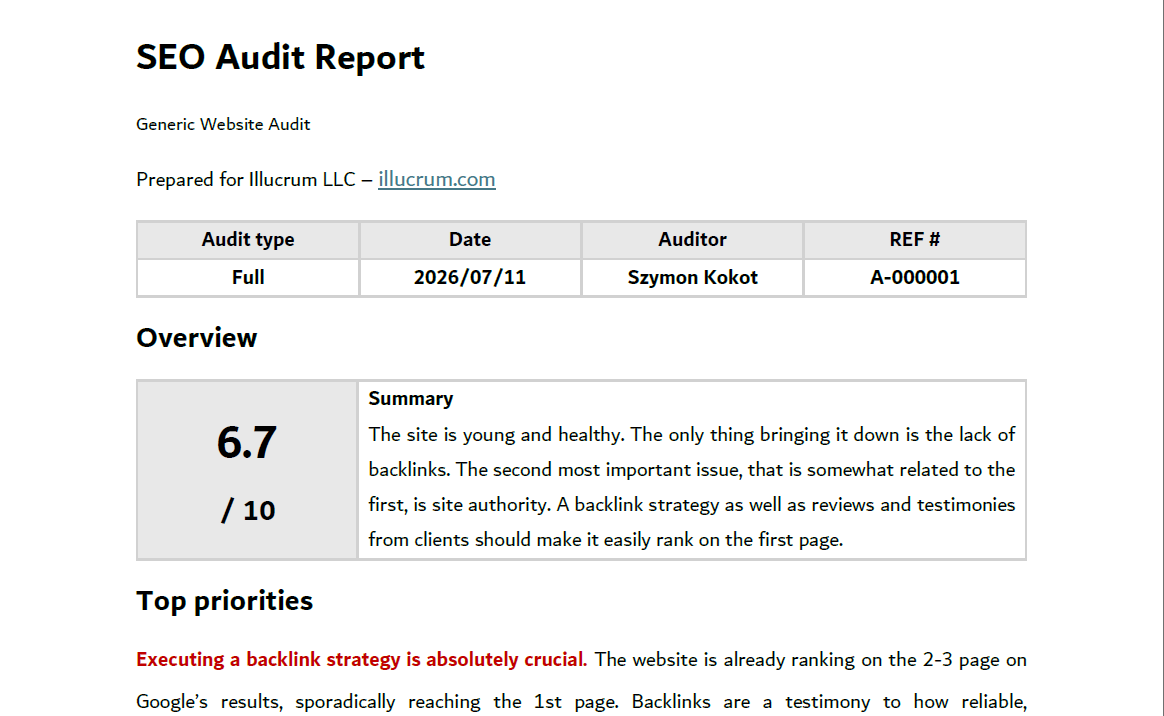
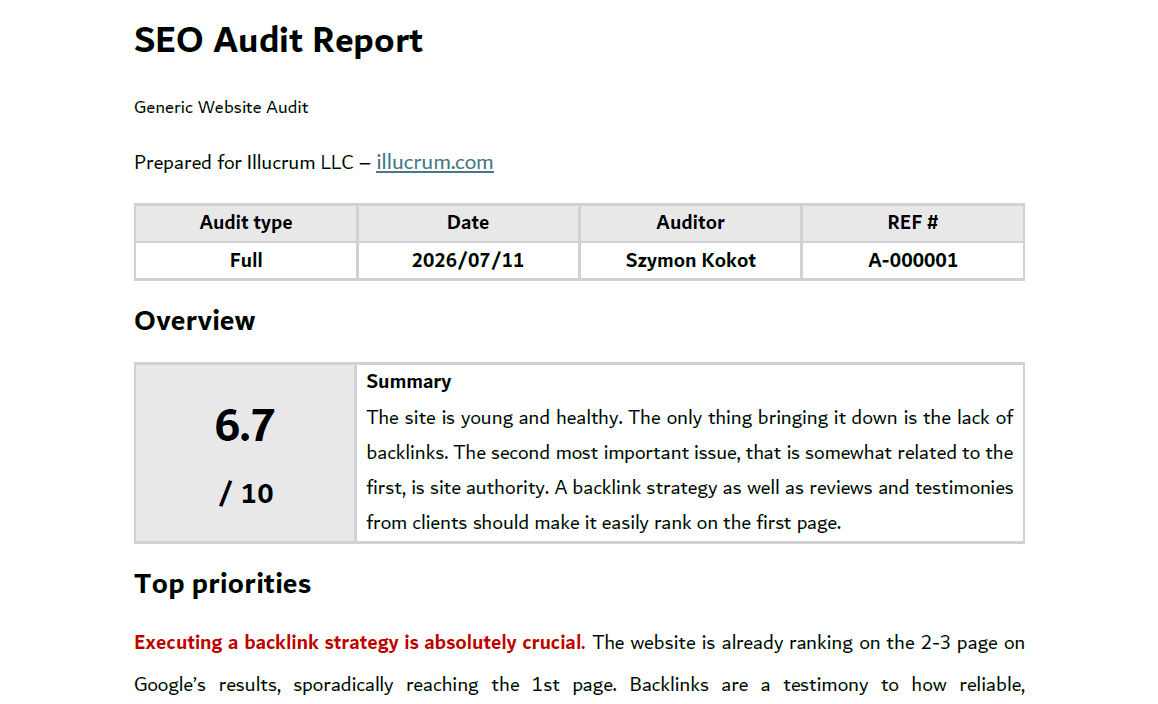
minor fixes

diff --git a/process/index.html b/process/index.html
@@ -187,71 +187,71 @@
   </header>
 
   <ol>
-    <p>
-    <div>
-      <h3>Intake (Day 1)</h3>
-      <p>A short brief, written or over a 15-minute call (your choice). The intake covers:</p>
-      <p> &middot; The site's URL and current state</p>
-      <p> &middot; What you're trying to grow (trials, demos, sales, leads)</p>
-      <p> &middot; Anything you already know is broken</p>
-      <p> &middot; Any business context the data won't surface (a recent replatform, a Google update that hurt rankings, a competitor that out-flanked you)</p>
-      <p>The intake is where most audits go wrong; without business context, the auditor scores findings against an abstract idea of "good SEO" instead of against your goals.</p>
-    </div>
-    </p>
-    <p>
-    <div>
-      <h3>Crawl and tooling (Days 1 to 3)</h3>
+    <li>
       <div>
-        <p>Automated tooling runs across the site. The standard stack:</p>
-        <p> &middot; <strong>Google Search Console</strong> for indexing, coverage, performance, and Core Web Vitals</p>
-        <p> &middot; <strong>PageSpeed Insights and Lighthouse</strong> for performance and CWV deep-dives</p>
-        <p> &middot; <strong>Ahrefs</strong> for backlinks, keyword visibility, and competitor analysis</p>
-        <p> &middot; <strong>Screaming Frog</strong> for the full crawl: status codes, internal links, canonicals, hreflang, structured data</p>
-        <p> &middot; <strong>Schema.org validator</strong> for structured data correctness</p>
-        <p> &middot; <strong>WAVE or axe-core</strong> for accessibility (an often-overlooked SEO factor)</p>
-        <p>Tools give us the raw data. They don't decide what matters.</p>
+        <h3>Intake (Day 1)</h3>
+        <p>A short brief, written or over a 15-minute call (your choice). The intake covers:</p>
+        <p> &middot; The site's URL and current state</p>
+        <p> &middot; What you're trying to grow (trials, demos, sales, leads)</p>
+        <p> &middot; Anything you already know is broken</p>
+        <p> &middot; Any business context the data won't surface (a recent replatform, a Google update that hurt rankings, a competitor that out-flanked you)</p>
+        <p>The intake is where most audits go wrong; without business context, the auditor scores findings against an abstract idea of "good SEO" instead of against your goals.</p>
       </div>
-    </div>
-    </p>
-    <p>
-    <div>
-      <h3>Manual review (Days 3 to 5)</h3>
+    </li>
+    <li>
       <div>
-        <p>The 46-point checklist is applied by hand. This is where most of the audit's value comes from. A few examples of what the manual stage catches that tools miss:</p>
-        <p> &middot; A canonical tag pointing to the wrong variant of a faceted product URL</p>
-        <p> &middot; A robots.txt rule that's accidentally blocking a high-traffic content cluster</p>
-        <p> &middot; Comparison pages that target the right keyword but fail to match the search intent</p>
-        <p> &middot; Internal link anchor text that's optimised for the wrong page</p>
-        <p> &middot; Schema markup that validates but contradicts the on-page content</p>
-        <p>Roughly half of the findings in a Full audit come from this stage. Tools alone produce a report that's 90% noise.</p>
+        <h3>Crawl and tooling (Days 1 to 3)</h3>
+        <div>
+          <p>Automated tooling runs across the site. The standard stack:</p>
+          <p> &middot; <strong>Google Search Console</strong> for indexing, coverage, performance, and Core Web Vitals</p>
+          <p> &middot; <strong>PageSpeed Insights and Lighthouse</strong> for performance and CWV deep-dives</p>
+          <p> &middot; <strong>Ahrefs</strong> for backlinks, keyword visibility, and competitor analysis</p>
+          <p> &middot; <strong>Screaming Frog</strong> for the full crawl: status codes, internal links, canonicals, hreflang, structured data</p>
+          <p> &middot; <strong>Schema.org validator</strong> for structured data correctness</p>
+          <p> &middot; <strong>WAVE or axe-core</strong> for accessibility (an often-overlooked SEO factor)</p>
+          <p>Tools give us the raw data. They don't decide what matters.</p>
+        </div>
       </div>
-    </div>
-    </p>
-    <p>
-    <div>
-      <h3>Scoring and prioritisation (Days 5 to 7)</h3>
+    </li>
+    <li>
       <div>
-        <p>Every finding is scored on two axes:</p>
-        <p> &middot; <strong>Impact:</strong> the expected ranking, traffic, or conversion lift from fixing it</p>
-        <p> &middot; <strong>Effort:</strong> how much engineering, content, or external work is required</p>
-        <p>The scoring rubric is consistent across every audit. The output is a prioritised list: fix these first, fix these next, ignore these. Two-thirds of the value comes from knowing what to ignore.</p>
+        <h3>Manual review (Days 3 to 5)</h3>
+        <div>
+          <p>The 46-point checklist is applied by hand. This is where most of the audit's value comes from. A few examples of what the manual stage catches that tools miss:</p>
+          <p> &middot; A canonical tag pointing to the wrong variant of a faceted product URL</p>
+          <p> &middot; A robots.txt rule that's accidentally blocking a high-traffic content cluster</p>
+          <p> &middot; Comparison pages that target the right keyword but fail to match the search intent</p>
+          <p> &middot; Internal link anchor text that's optimised for the wrong page</p>
+          <p> &middot; Schema markup that validates but contradicts the on-page content</p>
+          <p>Roughly half of the findings in a Full audit come from this stage. Tools alone produce a report that's 90% noise.</p>
+        </div>
       </div>
-    </div>
-    </p>
-    <p>
-    <div>
-      <h3>Report and handoff (Days 7 to 8)</h3>
+    </li>
+    <li>
       <div>
-        <p>The final report is delivered as a PDF and a structured action plan. It includes:</p>
-        <p> &middot; A two-page executive summary (what's working, what's broken, what to fix first)</p>
-        <p> &middot; The full 46-point scoring table</p>
-        <p> &middot; A prioritised action plan grouped by impact</p>
-        <p> &middot; Specific implementation notes for the top findings</p>
-        <p> &middot; Links to the tools and data sources used</p>
-        <p>If you want a 30-minute walkthrough call after delivery, that's included at no extra cost. If you don't, the report is written to stand on its own.</p>
+        <h3>Scoring and prioritisation (Days 5 to 7)</h3>
+        <div>
+          <p>Every finding is scored on two axes:</p>
+          <p> &middot; <strong>Impact:</strong> the expected ranking, traffic, or conversion lift from fixing it</p>
+          <p> &middot; <strong>Effort:</strong> how much engineering, content, or external work is required</p>
+          <p>The scoring rubric is consistent across every audit. The output is a prioritised list: fix these first, fix these next, ignore these. Two-thirds of the value comes from knowing what to ignore.</p>
+        </div>
       </div>
-    </div>
-    </p>
+    </li>
+    <li>
+      <div>
+        <h3>Report and handoff (Days 7 to 8)</h3>
+        <div>
+          <p>The final report is delivered as a PDF and a structured action plan. It includes:</p>
+          <p> &middot; A two-page executive summary (what's working, what's broken, what to fix first)</p>
+          <p> &middot; The full 46-point scoring table</p>
+          <p> &middot; A prioritised action plan grouped by impact</p>
+          <p> &middot; Specific implementation notes for the top findings</p>
+          <p> &middot; Links to the tools and data sources used</p>
+          <p>If you want a 30-minute walkthrough call after delivery, that's included at no extra cost. If you don't, the report is written to stand on its own.</p>
+        </div>
+      </div>
+    </li>
   </ol>
 </section>
 <section id="timeline">

diff --git a/index.html b/index.html
@@ -175,18 +175,17 @@
   <h1>SEO audits that show you <em>exactly</em> what to fix next</h1>
   <p>Most small and medium businesses lose traffic, leads, and revenue to problems hiding in plain sight. We find them, score them by impact, and hand you a prioritised action plan you can actually use.</p>
 
-  <p><small>{{l.common.cta.download_label}}</small></p>
+  <p><small>See for yourself</small></p>
   <nav>
     <button type="button" data-lead-open data-lead-source="homepage" data-lead-title="Contact form"
       data-lead-subtitle="Drop your details and we'll contact you.">
       Contact us
     </button>
-    <a href="/static/A-000001.pdf" download>{{l.common.cta.download}}</a>
+    <a href="/static/A-000001.pdf" download>Example PDF</a>
   </nav>
 
   <figure>
     <img src="/static/img/audit.png" alt="Example audit screenshot" loading="lazy" />
-    <figcaption>Sample audit report preview</figcaption>
   </figure>
 </header>
 
